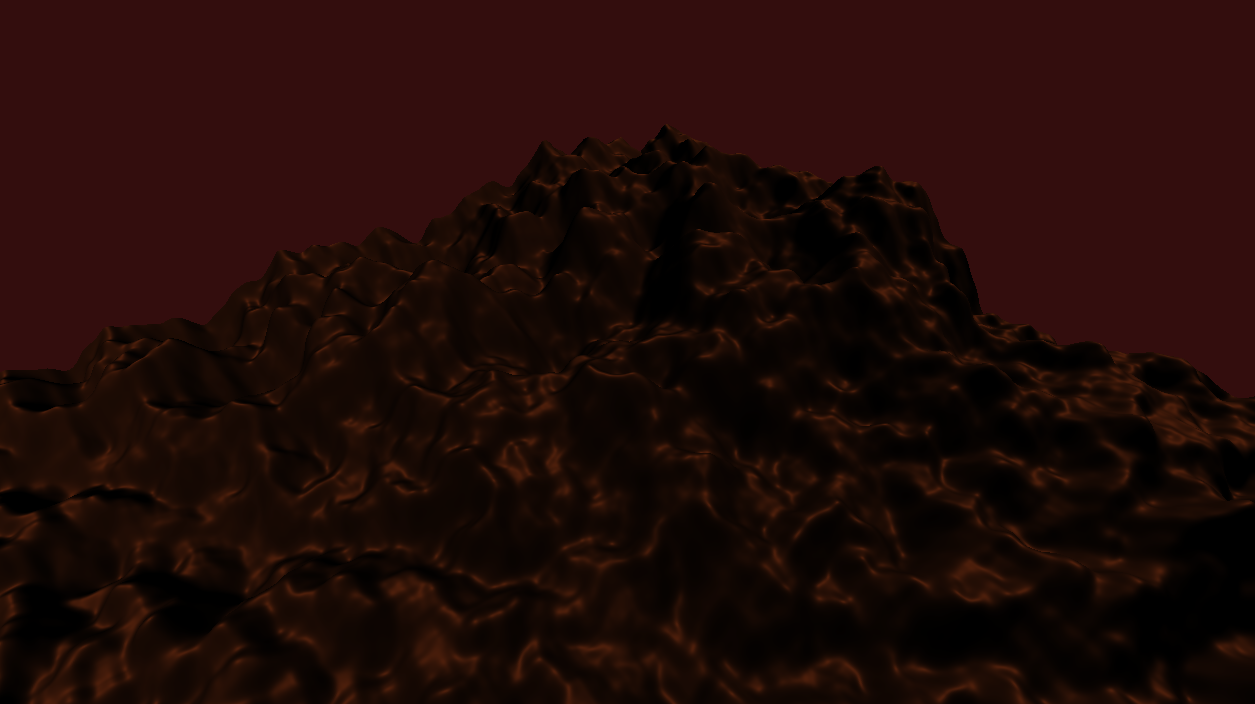
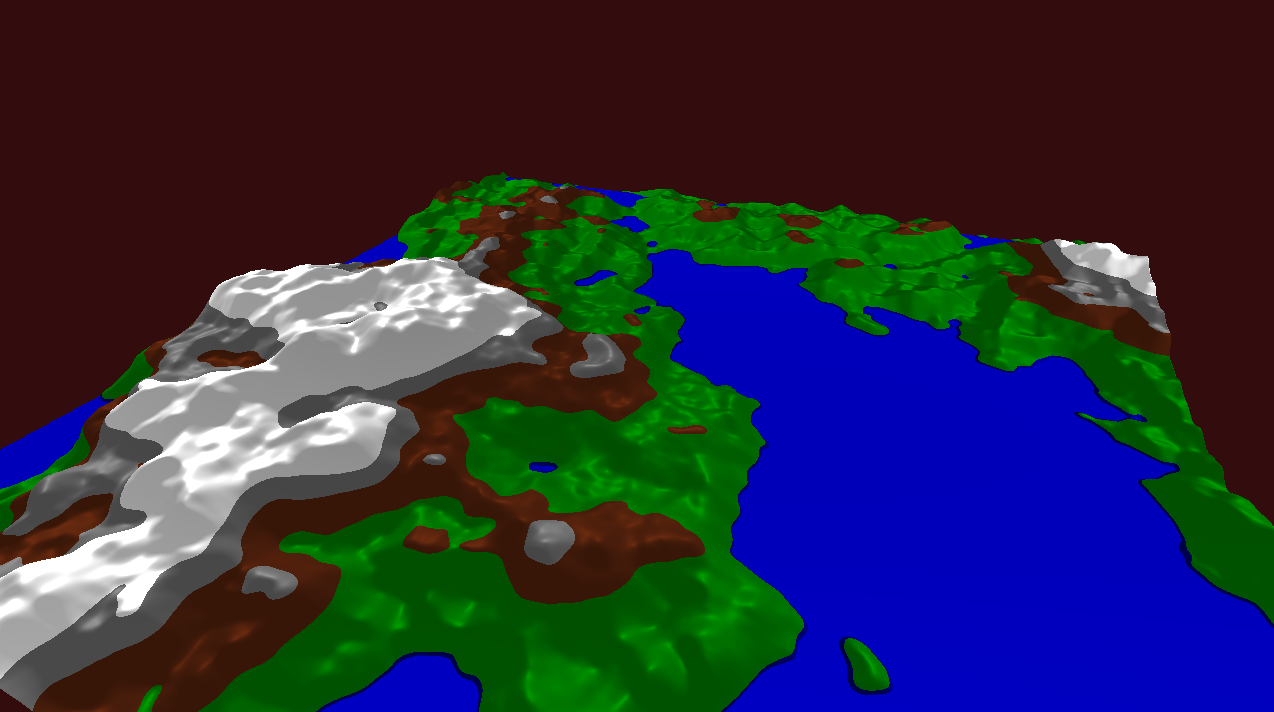
Updated terrain generator description and image

diff --git a/pages/projects.html b/pages/projects.html
@@ -47,8 +47,8 @@
                     <img src = "resources/project-ss/terraingenerator_1.png" style = "width: 60%;">
                 </div>
                 <p>
-                Current state of the terrain generator :(, just implemented Blinn-Phong lighting and the
-                "terrain" is just ridge noise.
+                Current state of the project, crude ocean, grass, dirt, stone, and snow separation solely based
+                on height, Blinn-Phong shading, and FBM generation.
                 </p>
                 <div class = "center-div">
                     <img src = "resources/project-ss/terraingenerator_2.png" style = "width: 60%;">
